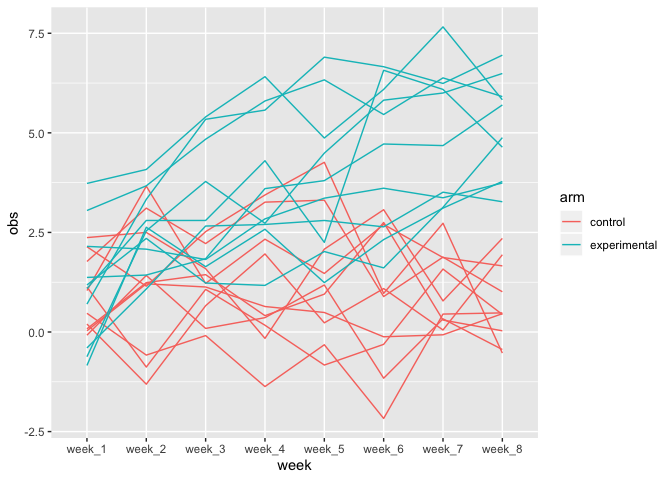
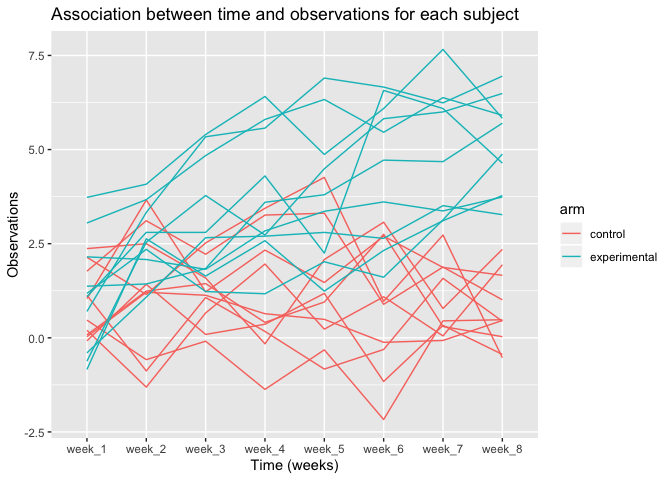
add labels to plot 1 in problem 2

diff --git a/hw5_jo2570.md b/hw5_jo2570.md
@@ -55,7 +55,7 @@ plot1 = tidy_df %>%
   pivot_longer(week_1:week_8,
     names_to = "week",
     values_to = "obs") %>% 
-  ggplot(aes(x = week, y = obs, color = arm, group = subject_id)) + geom_line()
+  ggplot(aes(x = week, y = obs, color = arm, group = subject_id)) + geom_line() + labs(title = "Association between time and observations for each subject", x = "Time (weeks)", y = "Observations")
 
 plot1
 ```
